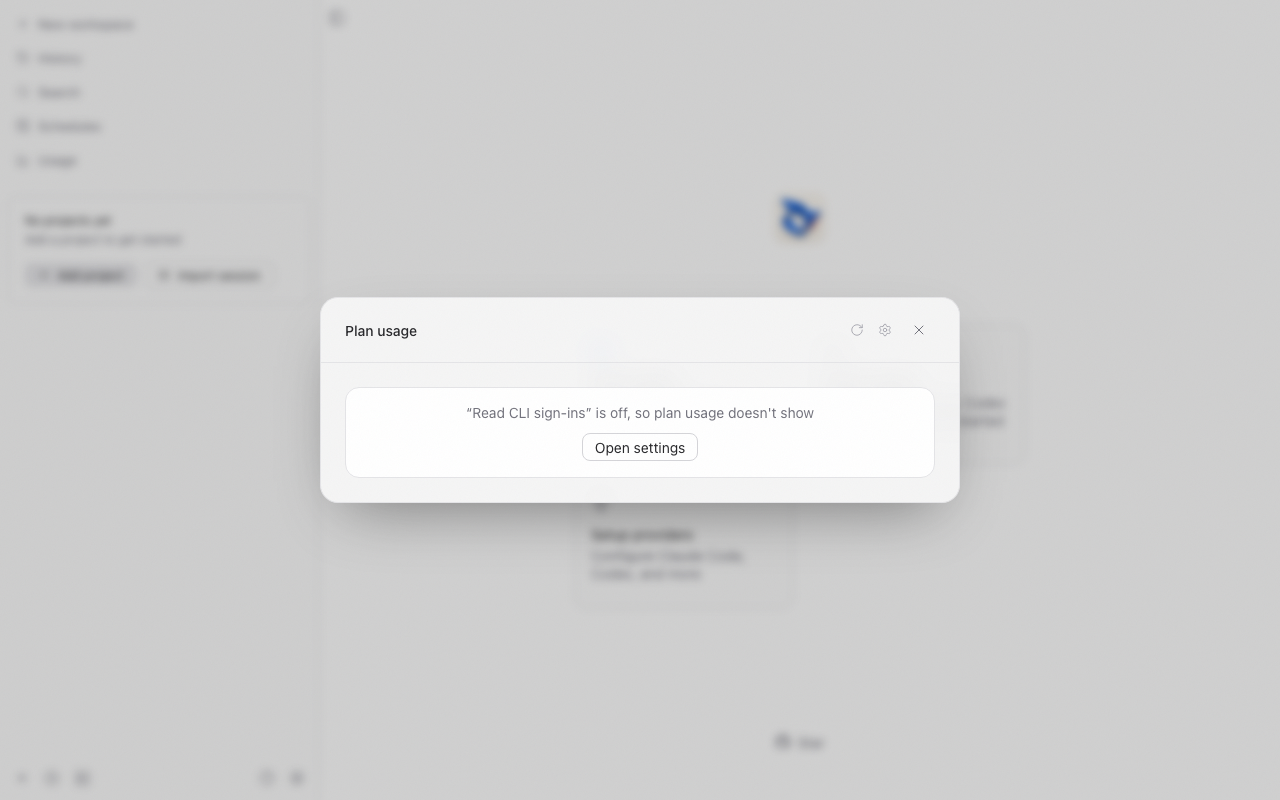
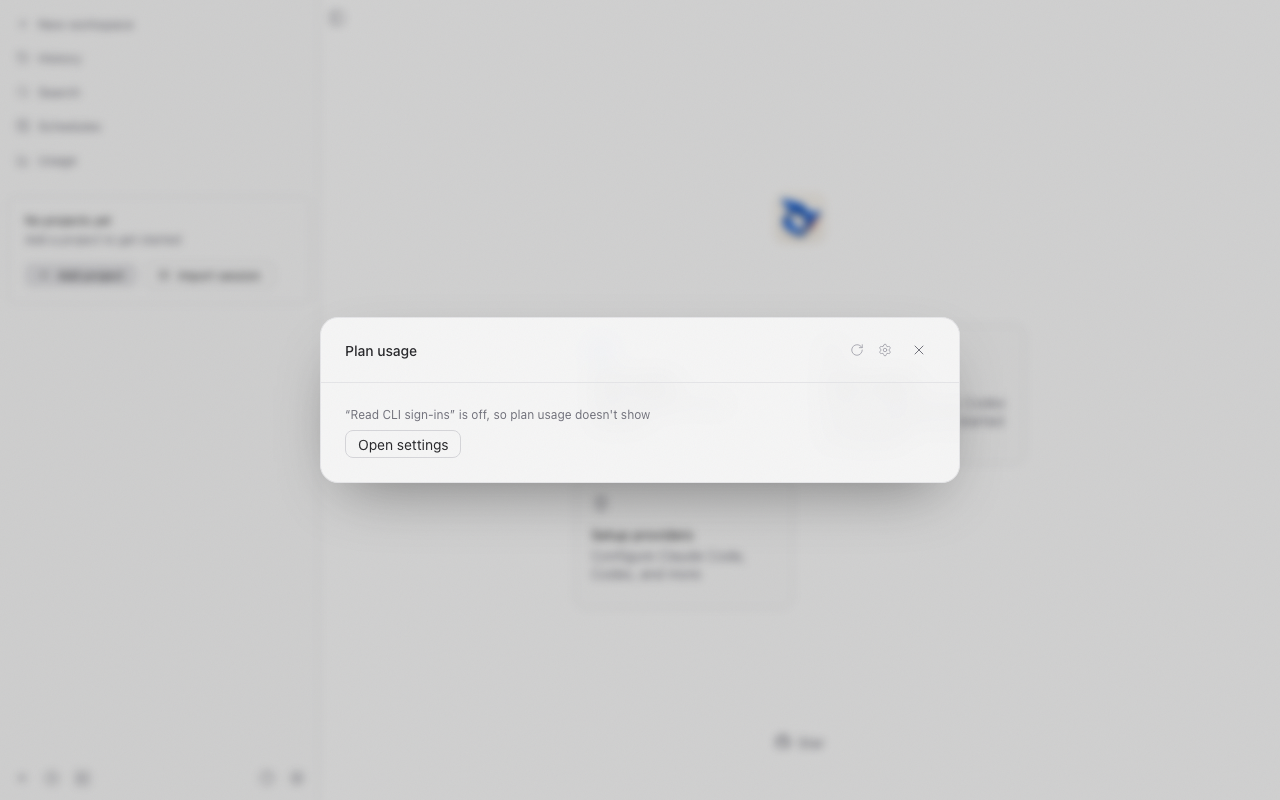
fix(privacy): 工单 02 审查修正
toQueryState 改对象参数；cliSignInsOff 只在 features.readCliSignIns 为真时采信（COMPAT 标记）；
「打开设置」带 focus=privacy，隐私一节滚进视野，补 390 宽的断言；
弹窗与用量页共用左对齐的说明 + 按钮，去掉弹窗里的单元素边框，重拍截图。

Changed region(s): [[0.25, 0.5, 0.75, 0.6562], [0.25, 0.375, 0.75, 0.4688]]

diff --git a/packages/app/src/screens/settings/host-privacy-section.tsx b/packages/app/src/screens/settings/host-privacy-section.tsx
@@ -1,4 +1,5 @@
-import { useCallback, useState } from "react";
+import { useCallback, useEffect, useRef, useState } from "react";
+import { useLocalSearchParams } from "expo-router";
 import { useQueryClient } from "@tanstack/react-query";
 import type { TFunction } from "i18next";
 import { useTranslation } from "react-i18next";
@@ -7,10 +8,12 @@ import { SettingsSection } from "@/components/settings/headings/settings-section
 import { Switch } from "@/components/ui/switch";
 import { useDaemonConfig } from "@/hooks/use-daemon-config";
 import { extractFailureReason } from "@/price-table/pricing";
+import { revealInScrollContainer } from "@/provider-detail/reveal";
 import { useHostFeature } from "@/runtime/host-features";
 import { useSessionStore } from "@/stores/session-store";
 import { settingsStyles } from "@/styles/settings";
 import { hostUsageQueryKey } from "@/usage/queries";
+import { HOST_PRIVACY_FOCUS } from "@/utils/host-routes";
 
 /** 主机设置的「隐私」一节：「读取 CLI 登录凭证」开关。daemon 不认这个开关时整节不出现。 */
 export function HostPrivacySection({ serverId }: { serverId: string }) {
@@ -26,6 +29,17 @@ export function HostPrivacySection({ serverId }: { serverId: string }) {
   // 保存中显示要改成的值；失败后清掉，开关回到 daemon 的值。
   const [pending, setPending] = useState<boolean | null>(null);
   const [error, setError] = useState<string | null>(null);
+  const sectionRef = useRef<View>(null);
+  const { focus } = useLocalSearchParams<{ focus?: string }>();
+  const loaded = config !== null;
+  const revealRequested = supported && loaded && focus === HOST_PRIVACY_FOCUS;
+
+  // 从套餐用量的「打开设置」进来：配置读到、这一节高度定下后滚进视野。
+  useEffect(() => {
+    if (!revealRequested) return;
+    const frame = requestAnimationFrame(() => revealInScrollContainer(sectionRef.current));
+    return () => cancelAnimationFrame(frame);
+  }, [revealRequested]);
 
   const handleValueChange = useCallback(
     (next: boolean) => {
@@ -50,38 +64,39 @@ export function HostPrivacySection({ serverId }: { serverId: string }) {
   if (!supported) return null;
 
   const saving = pending !== null;
-  const loaded = config !== null;
   const savedValue = config?.readCliSignIns !== false;
   const shownValue = pending ?? savedValue;
   const locked = !loaded || saving || !canManage;
 
   return (
-    <SettingsSection title={t("settings.host.privacy.title")} testID="host-privacy-section">
-      <View style={settingsStyles.card}>
-        <View style={settingsStyles.row}>
-          <View style={settingsStyles.rowContent}>
-            <Text style={settingsStyles.rowTitle}>
-              {t("settings.host.privacy.readCliSignIns.title")}
-            </Text>
-            <Text style={settingsStyles.rowHint}>
-              {t("settings.host.privacy.readCliSignIns.hint")}
-            </Text>
-            {error ? (
-              <Text style={settingsStyles.rowError} testID="host-privacy-read-cli-sign-ins-error">
-                {error}
+    <View ref={sectionRef}>
+      <SettingsSection title={t("settings.host.privacy.title")} testID="host-privacy-section">
+        <View style={settingsStyles.card}>
+          <View style={settingsStyles.row}>
+            <View style={settingsStyles.rowContent}>
+              <Text style={settingsStyles.rowTitle}>
+                {t("settings.host.privacy.readCliSignIns.title")}
               </Text>
-            ) : null}
+              <Text style={settingsStyles.rowHint}>
+                {t("settings.host.privacy.readCliSignIns.hint")}
+              </Text>
+              {error ? (
+                <Text style={settingsStyles.rowError} testID="host-privacy-read-cli-sign-ins-error">
+                  {error}
+                </Text>
+              ) : null}
+            </View>
+            <Switch
+              value={shownValue}
+              onValueChange={handleValueChange}
+              disabled={locked}
+              accessibilityLabel={t("settings.host.privacy.readCliSignIns.title")}
+              testID="host-privacy-read-cli-sign-ins-switch"
+            />
           </View>
-          <Switch
-            value={shownValue}
-            onValueChange={handleValueChange}
-            disabled={locked}
-            accessibilityLabel={t("settings.host.privacy.readCliSignIns.title")}
-            testID="host-privacy-read-cli-sign-ins-switch"
-          />
         </View>
-      </View>
-    </SettingsSection>
+      </SettingsSection>
+    </View>
   );
 }
 

diff --git a/packages/app/src/usage/queries.ts b/packages/app/src/usage/queries.ts
@@ -16,6 +16,7 @@ import {
   useHostRuntimeIsConnected,
   useHosts,
 } from "@/runtime/host-runtime";
+import { selectHostFeature } from "@/runtime/host-features";
 import { useSessionStore, type SessionState } from "@/stores/session-store";
 import { usageCopy } from "./copy";
 import {
@@ -105,8 +106,10 @@ async function listReports(
     serverId,
     forceRefresh,
   });
+  // COMPAT(readCliSignIns): added in v0.17.0, remove gate after 2027-04-25.
+  const knowsSwitch = selectHostFeature(useSessionStore.getState(), serverId, "readCliSignIns");
   // 先于报告写入，空列表落下时说明已经在了，不会先闪一下「没有套餐用量」。
-  queryClient.setQueryData(cliSignInsOffQueryKey(serverId), cliSignInsOff);
+  queryClient.setQueryData(cliSignInsOffQueryKey(serverId), knowsSwitch && cliSignInsOff);
   return reports;
 }
 
@@ -152,14 +155,15 @@ async function refreshReports(queryClient: QueryClient, serverId: string): Promi
   });
 }
 
-function toQueryState(
+function toQueryState(input: {
   query: {
     data: UsageReportEntry[] | undefined;
     error: unknown;
     isFetching: boolean;
-  },
-  cliSignInsOff = false,
-): UsageQueryState {
+  };
+  cliSignInsOff?: boolean;
+}): UsageQueryState {
+  const { query, cliSignInsOff = false } = input;
   return { data: query.data, error: query.error, isFetching: query.isFetching, cliSignInsOff };
 }
 
@@ -184,7 +188,7 @@ export function useHostUsage(serverId: string): { view: UsageView; refresh: () =
     hostLabel,
     isConnected,
     supportsUsage: isSupported,
-    query: toQueryState(query, cliSignInsOff),
+    query: toQueryState({ query, cliSignInsOff }),
   });
   return { view, refresh };
 }
@@ -232,7 +236,7 @@ export function useAgentUsage(serverId: string, agentId: string): AgentUsageView
     retry: false,
     staleTimeMs: REPORTS_STALE_TIME_MS,
   });
-  return resolveAgentUsageView({ canReport, query: toQueryState(query) });
+  return resolveAgentUsageView({ canReport, query: toQueryState({ query }) });
 }
 
 /** Whether a host is connected and reports usage, read without fetching anything. */

diff --git a/packages/app/src/usage/cli-sign-ins-off-notice.tsx b/packages/app/src/usage/cli-sign-ins-off-notice.tsx
@@ -1,0 +1,50 @@
+import { useCallback } from "react";
+import { Text, View } from "react-native";
+import { StyleSheet } from "react-native-unistyles";
+import { Button } from "@/components/ui/button";
+import { openHostPrivacySettings } from "@/navigation/settings-navigation";
+import { usageCopy } from "./copy";
+
+/**
+ * 套餐用量因「读取 CLI 登录凭证」关着而空着：说明一行，下面是去主机设置「隐私」一节的按钮。
+ * `onLeave` 在跳转前调用，盖在页面上的弹窗借它先关掉。
+ */
+export function CliSignInsOffNotice({
+  serverId,
+  onLeave,
+}: {
+  serverId: string;
+  onLeave?: () => void;
+}) {
+  const handleOpenSettings = useCallback(() => {
+    onLeave?.();
+    openHostPrivacySettings(serverId);
+  }, [onLeave, serverId]);
+  return (
+    <View style={styles.notice}>
+      <Text style={styles.text} testID="usage-cli-sign-ins-off">
+        {usageCopy.cliSignInsOff}
+      </Text>
+      <Button
+        variant="outline"
+        size="sm"
+        onPress={handleOpenSettings}
+        testID="usage-open-privacy-settings"
+      >
+        {usageCopy.openPrivacySettings}
+      </Button>
+    </View>
+  );
+}
+
+const styles = StyleSheet.create((theme) => ({
+  // 说明与按钮靠左排成一列，按钮不撑满宽度。
+  notice: {
+    alignItems: "flex-start",
+    gap: theme.spacing[2],
+  },
+  text: {
+    color: theme.colors.foregroundMuted,
+    fontSize: theme.fontSize.sm,
+  },
+}));

diff --git a/packages/app/e2e/browser/settings-host-privacy.spec.ts b/packages/app/e2e/browser/settings-host-privacy.spec.ts
@@ -19,6 +19,7 @@ import {
   closeUsage,
   expectNoUsageItem,
   expectPinnedUsage,
+  openCompactSidebar,
   openUsageFromIcon,
   openUsageFromItem,
   togglePin,
@@ -145,7 +146,9 @@ test.describe("Plan usage while Read CLI sign-ins is off", () => {
   }
 
   async function expectOnPrivacySection(page: import("@playwright/test").Page) {
-    await expect(page).toHaveURL(new RegExp(`/settings/hosts/${getServerId()}/host$`));
+    await expect(page).toHaveURL(
+      new RegExp(`/settings/hosts/${getServerId()}/host\\?focus=privacy$`),
+    );
     await expect(privacySection(page)).toBeInViewport();
   }
 
@@ -186,6 +189,18 @@ test.describe("Plan usage while Read CLI sign-ins is off", () => {
       await page.goBack();
       await expectPinnedUsage(page, ["31% 5h", "7% 5h", "12% wk"]);
     });
+  });
+
+  test("on a phone-width window, Open settings scrolls Privacy into view", async ({ page }) => {
+    test.setTimeout(120_000);
+    await page.setViewportSize({ width: 390, height: 844 });
+    const reports = await installSwitchAwareReports(page);
+    reports.off = true;
+    await gotoAppShell(page);
+    await openCompactSidebar(page);
+    await openUsageFromIcon(page);
+    await usageModal(page).getByRole("button", { name: "Open settings", exact: true }).click();
+    await expectOnPrivacySection(page);
   });
 
   test("the Usage page's plan usage says why it's empty and Open settings lands on Privacy", async ({

diff --git a/packages/app/src/components/usage/usage-plan-card.tsx b/packages/app/src/components/usage/usage-plan-card.tsx
@@ -14,7 +14,7 @@ import { useProvidersSnapshot } from "@/hooks/use-providers-snapshot";
 import { usePlanUsageHosts } from "@/plan-usage/use-hosts";
 import { UsageCard as PlanUsageReportCard } from "@/usage/card";
 import { usageCopy } from "@/usage/copy";
-import { OpenPrivacySettingsButton } from "@/usage/open-privacy-settings-button";
+import { CliSignInsOffNotice } from "@/usage/cli-sign-ins-off-notice";
 import { useUsageDisplay } from "@/usage/display";
 import { useUsageInSidebar } from "@/usage/in-sidebar";
 import type { UsageReportEntry, UsageView } from "@/usage/types";
@@ -104,14 +104,7 @@ function PlanUsageBody({
   }
 
   if (view.kind === "cliSignInsOff") {
-    return (
-      <View style={styles.offNotice}>
-        <Text style={styles.message} testID="usage-cli-sign-ins-off">
-          {usageCopy.cliSignInsOff}
-        </Text>
-        <OpenPrivacySettingsButton serverId={serverId} />
-      </View>
-    );
+    return <CliSignInsOffNotice serverId={serverId} />;
   }
 
   if (view.reports.length === 0) {
@@ -206,11 +199,6 @@ const styles = StyleSheet.create((theme) => {
     host: {
       fontSize: 11,
       color: palette.inkFaint,
-    },
-    // 说明与按钮靠左排成一列，按钮不撑满卡片宽度。
-    offNotice: {
-      alignItems: "flex-start",
-      gap: theme.spacing[1],
     },
     message: {
       fontSize: 13,

diff --git a/packages/app/src/usage/usage-section.tsx b/packages/app/src/usage/usage-section.tsx
@@ -9,7 +9,7 @@ import { usageCopy } from "./copy";
 import type { UsageDisplay } from "./display";
 import { UsageControls } from "./controls";
 import { UsageList } from "./list";
-import { OpenPrivacySettingsButton } from "./open-privacy-settings-button";
+import { CliSignInsOffNotice } from "./cli-sign-ins-off-notice";
 import type { UsageView } from "./types";
 
 export function UsageSection({
@@ -73,14 +73,7 @@ export function UsageBody({
   }
 
   if (view.kind === "cliSignInsOff") {
-    return (
-      <View style={[settingsStyles.card, styles.emptyCard, styles.offCard]}>
-        <Text style={[styles.emptyText, styles.offText]} testID="usage-cli-sign-ins-off">
-          {usageCopy.cliSignInsOff}
-        </Text>
-        <OpenPrivacySettingsButton serverId={serverId} onLeave={onLeave} />
-      </View>
-    );
+    return <CliSignInsOffNotice serverId={serverId} onLeave={onLeave} />;
   }
 
   if (view.reports.length === 0) {
@@ -102,13 +95,6 @@ const styles = StyleSheet.create((theme) => ({
   emptyCard: {
     padding: theme.spacing[4],
     alignItems: "center",
-  },
-  offCard: {
-    gap: theme.spacing[3],
-  },
-  // 窄屏折成两行时仍和下面的按钮一样居中。
-  offText: {
-    textAlign: "center",
   },
   emptyText: {
     color: theme.colors.foregroundMuted,

diff --git a/packages/app/src/navigation/settings-navigation.ts b/packages/app/src/navigation/settings-navigation.ts
@@ -4,6 +4,7 @@ import {
   buildOpenProjectRoute,
   buildProjectSettingsRoute,
   buildProjectsSettingsRoute,
+  buildSettingsHostPrivacyRoute,
   buildSettingsHostSectionRoute,
   buildSettingsRoute,
   type HostSectionSlug,
@@ -25,6 +26,11 @@ export function openHostOverview(serverId: string): void {
 
 export function openHostSettingsSection(serverId: string, section: HostSectionSlug): void {
   router.push(buildSettingsHostSectionRoute(serverId, section));
+}
+
+/** 主机设置页，并把「隐私」一节滚进视野。 */
+export function openHostPrivacySettings(serverId: string): void {
+  router.push(buildSettingsHostPrivacyRoute(serverId));
 }
 
 export function openProjectSettings(serverId: string, projectId: string): void {

diff --git a/packages/app/src/utils/host-routes.ts b/packages/app/src/utils/host-routes.ts
@@ -587,6 +587,13 @@ export function buildSettingsHostSectionRoute(serverId: string, section: HostSec
   return `/settings/hosts/${encodeSegment(normalized)}/${section}` as const;
 }
 
+/** 主机设置的 `focus` 参数取这个值时，「隐私」一节打开后滚进视野。 */
+export const HOST_PRIVACY_FOCUS = "privacy";
+
+export function buildSettingsHostPrivacyRoute(serverId: string) {
+  return `${buildSettingsHostSectionRoute(serverId, "host")}?focus=${HOST_PRIVACY_FOCUS}` as const;
+}
+
 export function buildProjectsSettingsRoute(serverId: string) {
   const normalized = trimNonEmpty(serverId);
   if (!normalized) {
